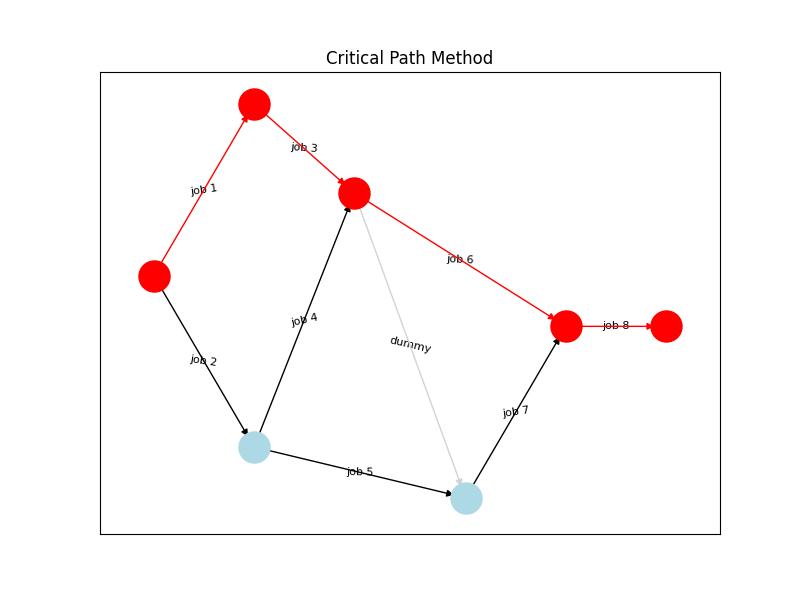
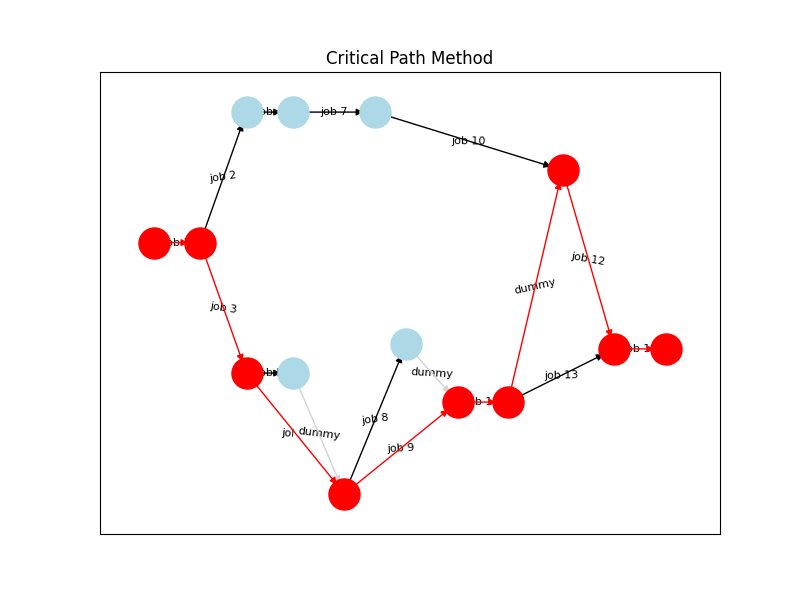
visualize, example updated

diff --git a/CPM/visualize.py b/CPM/visualize.py
@@ -5,7 +5,6 @@ import os
 from networkx.drawing.nx_agraph import graphviz_layout
 from collections import defaultdict
 from CPM import *
-import json, sys
 
 # Define a class State to represent each state with its incoming and outgoing jobs
 class State(object):
@@ -26,6 +25,16 @@ class State(object):
         if tmpset != set(self.outgoing) and tmpset != set([]):
             return True
         return False
+    
+    def outgoing_equals(self, other) -> bool:
+        if isinstance(other, State):
+            return (self.id == other.id and self.outgoing == other.outgoing)
+        return False
+
+    def incoming_equals(self, other) -> bool:
+        if isinstance(other, State):
+            return self.outgoing == other.outgoing
+        return False
 
     def __str__(self) -> str:
         return f"State {self.id}"
@@ -35,7 +44,10 @@ class State(object):
     
     def __eq__(self, other) -> bool:
         if isinstance(other, State):
-            return (self.id == other.id and self.outgoing == other.outgoing)
+            return (self.id == other.id
+                    and self.is_critical == other.is_critical
+                    and self.incoming == other.incoming
+                    and self.outgoing == other.outgoing)
         return False
     
     def __hash__(self) -> int:
@@ -43,31 +55,64 @@ class State(object):
 
     
 class States(object):
-    def __init__(self, states) -> None:
+    def __init__(self, states, jobs, critical_path) -> None:
         self.states = states
-        self.shared_outgoing = self.find_shared_outgoing()
-        self.dummies = []
-        for key in self.shared_outgoing.keys():
-            states = self.shared_outgoing[key]
+        shared_outgoing = self.find_shared_outgoing()
+        
+        for states in shared_outgoing:
+            shared_predecessor = self.find_shared_predecessor(states, jobs)
+            if len(shared_predecessor) > 0:
+                for shared_states in shared_predecessor:
+                    state = shared_states[0]
+                    for st in shared_states:
+                        if st.is_critical:
+                            state = st
+                            break
+                    for st in shared_states:
+                        if st != state:
+                            dummy = Job(f'{state.id}', 0, [], is_dummy=True)
+                            st.outgoing = [dummy]
+
+        shared_outgoing = self.find_shared_outgoing()
+        for states in shared_outgoing:
             state = states[0]
             for st in states:
                 if st.is_critical:
                     state = st
+                    break
             for i in range(0, len(states)):
                 if states[i] != state:
                     state.add_incoming(states[i].incoming[0])
                 for k, v in self.states.items():
-                    if self.states[k] == states[i]:
+                    if self.states[k].outgoing_equals(states[i]):
                         self.states[k] = state
+        for state in self.states.values():
             for dummy_state in self.states.values():
                 if state.subset(dummy_state):
+                    if dummy_state.outgoing[0].is_dummy:
+                        continue
                     state.outgoing = list(set(state.outgoing) - set(dummy_state.outgoing))
                     dummy = Job(f'{dummy_state.id}', 0, [], is_dummy=True)
+                    if len([x for x in state.incoming if x in critical_path])*len([x for x in dummy_state.outgoing if x in critical_path]) > 0:
+                        critical_path.append(dummy)
+                        dummy_state.is_critical = True
                     state.add_outgoing(dummy)
-                    self.dummies.append(dummy)
-        
+
     def states_dict(self):
         return self.states
+    
+    @staticmethod
+    def find_shared_predecessor(states, jobs) -> dict:
+        # Create a dictionary where the keys are the incoming jobs, and the values are lists of states
+        incoming_dict = defaultdict(list)
+        for state in states:
+            # Convert the list of incoming jobs to a tuple so it can be used as a dictionary key
+            predecessor_tuple = tuple(sorted(jobs[int(state.id)].predecessors))
+            incoming_dict[predecessor_tuple].append(state)
+
+        # Find and return only those incoming jobs that are shared by more than one state
+        shared_predecessor = [states for predecessor, states in incoming_dict.items() if len(states) > 1]
+        return shared_predecessor
 
     def find_shared_outgoing(self) -> dict:
         # Create a dictionary where the keys are the outgoing jobs, and the values are lists of states
@@ -78,7 +123,7 @@ class States(object):
             outgoing_dict[outgoing_tuple].append(state)
 
         # Find and return only those outgoing jobs that are shared by more than one state
-        shared_outgoing = {outgoing: states for outgoing, states in outgoing_dict.items() if len(states) > 1}
+        shared_outgoing = [states for outgoing, states in outgoing_dict.items() if len(states) > 1]
         return shared_outgoing
 
 
@@ -98,13 +143,13 @@ def visualize_CPM(jobs, critical_path, outputpath=DEAFULT_PATH) -> None:
         is_critical = False
         if job in critical_path:
             is_critical = True
-        states[job] = State(job.id, is_critical)
-        states[job].add_incoming(job)
+        states[int(job.id)] = State(job.id, is_critical)
+        states[int(job.id)].add_incoming(job)
     for job in jobs.values():
         for predecessor_id in job.predecessors:
-            states[jobs[predecessor_id]].add_outgoing(job)
+            states[predecessor_id].add_outgoing(job)
 
-    st = States(states)
+    st = States(states, jobs, critical_path)
     states = st.states
 
     # Create a directed graph
@@ -116,9 +161,9 @@ def visualize_CPM(jobs, critical_path, outputpath=DEAFULT_PATH) -> None:
     for state in states.values():
         for outgoing in state.outgoing:
             if not outgoing.is_dummy:
-                graph.add_edge(state, states[jobs[int(outgoing.id)]], label="job " + str(outgoing), is_critical=(outgoing in critical_path), is_dummy=False)
+                graph.add_edge(state, states[int(outgoing.id)], label="job " + str(outgoing), is_critical=(outgoing in critical_path), is_dummy=False)
             else:
-                graph.add_edge(state, states[jobs[int(outgoing.id)]], label='dummy', is_critical=(state.is_critical and states[jobs[int(outgoing.id)]].is_critical), is_dummy=True)
+                graph.add_edge(state, states[int(outgoing.id)], label='dummy', is_critical=(state.is_critical and states[int(outgoing.id)].is_critical), is_dummy=True)
             edge_labels = nx.get_edge_attributes(graph, 'label')
 
     # Draw the graph
@@ -160,11 +205,3 @@ def visualize_CPM(jobs, critical_path, outputpath=DEAFULT_PATH) -> None:
     plt.savefig(outputpath+'/CPM.png')
     plt.show()
 
-
-def find_subsets(superlist):
-    results = {}
-    for i, A in enumerate(superlist):
-        for j, B in enumerate(superlist):
-            if i != j and set(A).issubset(B):
-                results[A] = B
-    return results

diff --git a/CPM/CPM.py b/CPM/CPM.py
@@ -14,7 +14,10 @@ class Job:
     
     def __eq__(self, other):
         if isinstance(other, Job):
-            return self.id == other.id
+            return (self.id == other.id
+                    and self.duration == other.duration
+                    and self.predecessors == other.predecessors
+                    and self.is_dummy == other.is_dummy)
         return False
 
     def __ne__(self, other):

diff --git a/CPM/main.py b/CPM/main.py
@@ -9,7 +9,7 @@ def main():
     if len(sys.argv) > 2:
         outputpath = sys.argv[2]
     else:
-        inputpath = 'SchedulingTheory/CPM/input/lecture.json'
+        inputpath = 'SchedulingTheory/CPM/input/example.json'
         outputpath = DEAFULT_PATH
 
     with open(inputpath, 'r') as f:
